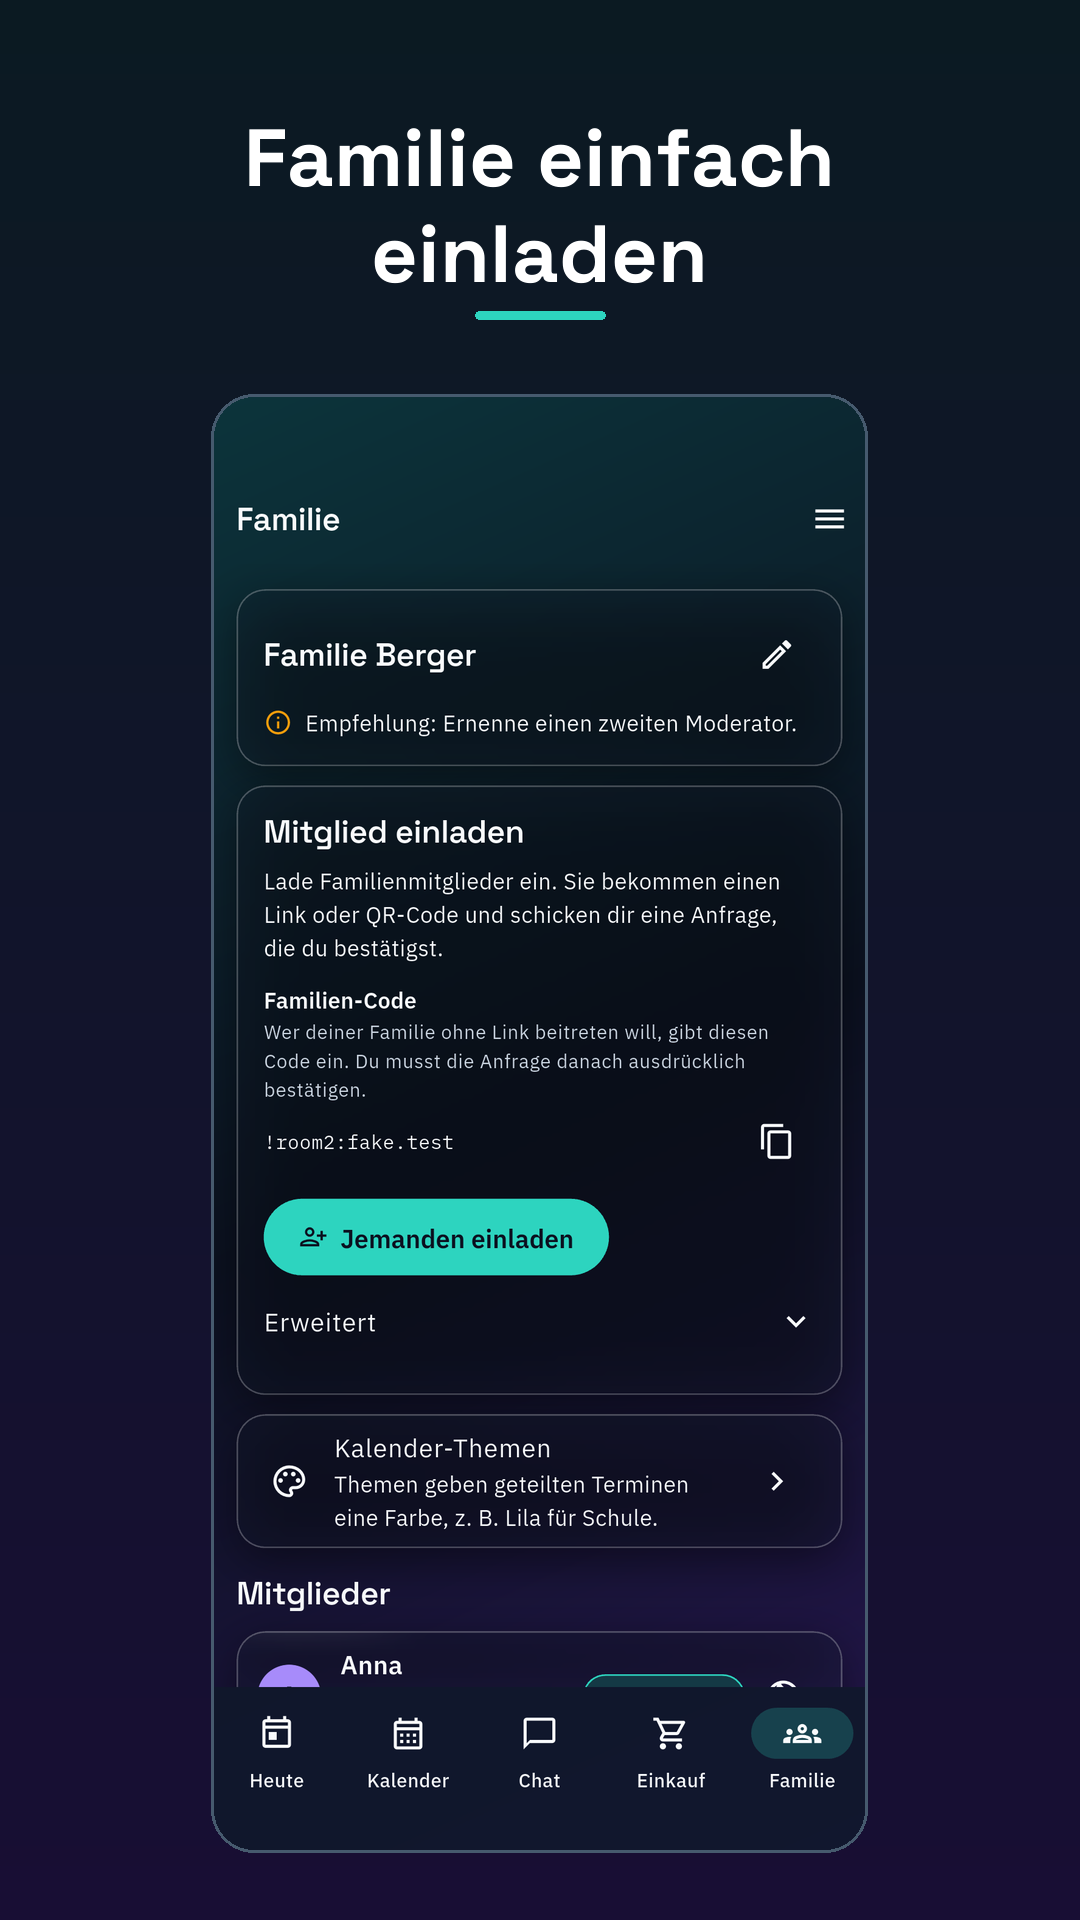
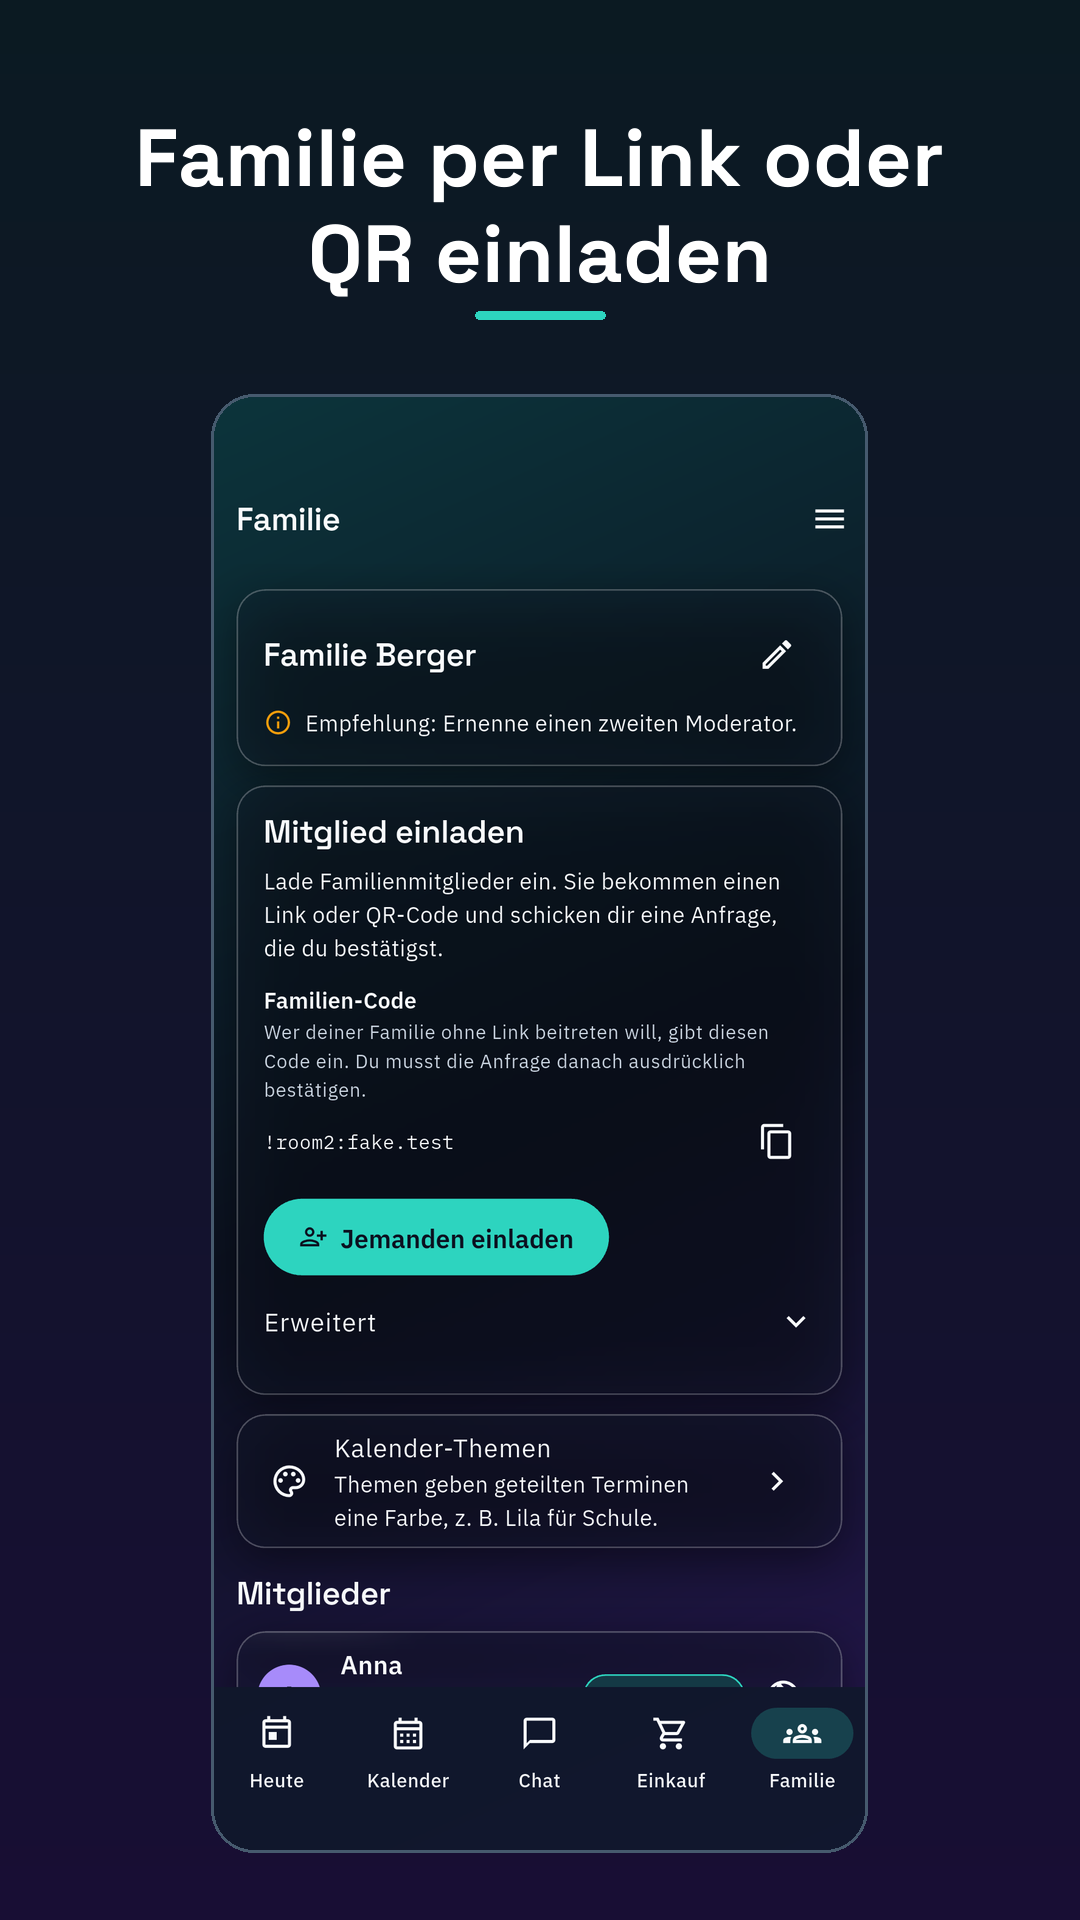
Play-Screenshots: Überschrift Einladung belegt, Testlücken aus dem Testbericht geschlossen (#349)
Der Testbericht fand „Invite your family in seconds“ als nicht belegte Werbeaussage
(Einladung läuft per Link oder QR-Code mit Bestätigung durch einen Moderator). Die
Überschrift nennt jetzt „Familie per Link oder QR einladen“ / „Invite your family by
link or QR“ (07-familie in beiden Sprachen neu komponiert, die übrigen zwölf Bilder
sind byteidentisch geblieben).

Test: Superlative und Zeitversprechen erweitert (einzigartig, schnellste, fastest,
most secure, 100 %, Sekunden/seconds); nur die Chunks IHDR, IDAT, IEND sind erlaubt
(keine Metadaten wie tEXt/eXIf). decode_shots.py beendet sich ohne PNG-Zeilen mit
Fehler und warnt bei weniger als sieben Bildern. README: Hinweis zum macOS-Motiv.

Changed region(s): [[0.1222, 0.0625, 0.8861, 0.1562]]

diff --git a/test/store/play_screenshots_test.dart b/test/store/play_screenshots_test.dart
@@ -70,6 +70,8 @@ void main() {
           expect(h.getUint8(9), 2, reason: 'Farbtyp 2 = RGB ohne Alpha');
           expect(h.getUint8(12), 0, reason: 'kein Interlace');
           expect(chunks.map((c) => c.type), isNot(contains('tRNS')), reason: 'Transparenz-Chunk');
+          expect(chunks.map((c) => c.type).toSet().difference(<String>{'IHDR', 'IDAT', 'IEND'}), isEmpty,
+              reason: 'nur IHDR, IDAT und IEND: keine Metadaten-Chunks (tEXt, iTXt, eXIf, …) mit Autor oder Pfad');
         });
       }
     });
@@ -94,7 +96,7 @@ void main() {
 
     final price = RegExp(r'[€$£]|\b(free|gratis|kostenlos|price|preis|euro|usd)\b', caseSensitive: false);
     final url = RegExp(r'http|www|\.com|\.de|\.org|://', caseSensitive: false);
-    final award = RegExp(r'\bbest(e|en|er|es)?\b|#\s?1|award|auszeichnung|preisgekr|nummer 1|number one|\btop\b|führend|leading|world|weltweit', caseSensitive: false);
+    final award = RegExp(r'\bbest(e|en|er|es)?\b|#\s?1|award|auszeichnung|preisgekr|nummer 1|number one|\btop\b|führend|leading|world|weltweit|einzigartig|unique|schnell(er|e|ste|sten)?\b|fast(er|est)?\b|am sichersten|most secure|100\s?%|sekunden|seconds', caseSensitive: false);
     // Liste wie in test/store/store_wording_test.dart.
     final british = RegExp(r'colour|synchronis|cancell|licence|authoris|organis|behaviour|centre|whilst|amongst|defence|\btick(s|ed)?\b', caseSensitive: false);
     for (final lang in <String>['de', 'en']) {

diff --git a/tool/preview/decode_shots.py b/tool/preview/decode_shots.py
@@ -47,3 +47,7 @@ if __name__ == '__main__':
         raise SystemExit('Sprache (de|en) als drittes Argument angeben oder im Namen der Logdatei führen')
     out, names = decode(log, out_root, lang)
     print(f'{len(names)} Bilder nach {out}: {", ".join(names)}')
+    if not names:
+        raise SystemExit('keine PNG-Zeilen im Log gefunden (Lauf abgebrochen oder abgeschnitten?)')
+    if len(names) != 7:
+        print(f'WARNUNG: erwartet werden 7 Bilder, gefunden {len(names)}', file=sys.stderr)

diff --git a/store/screenshots/README.md b/store/screenshots/README.md
@@ -31,6 +31,8 @@ Alle Aufnahmen zeigen **erfundene Beispieldaten** (Fake-Server, siehe `tool/prev
 
 - `macos-2560x1600/` – Mac App Store (2560×1600): dieselben Motive, Kalender in der Agenda-Ansicht (die Monatsansicht streckt sich auf der breiten Fläche). Reine Flutter-Oberfläche ohne Fensterrahmen.
 
+**Hinweis macOS:** Das neue Motiv `7-datenschutz` (Menü → Datenschutzerklärung) ist auf macOS nicht geprüft; es zeigt dort den Text mit dem Schlüsselbund statt der Android-Variante und gehört nicht in das Play-Paket.
+
 Neu erzeugen macOS: `flutter test integration_test/store_screenshots_test.dart -d macos > log.txt`; der Test gibt die PNGs als Zeilen
 `PNG <name> <base64>` aus (die Sandbox der App ist von außen nicht lesbar, Bildschirmaufnahme-Recht ist nicht nötig).
 
